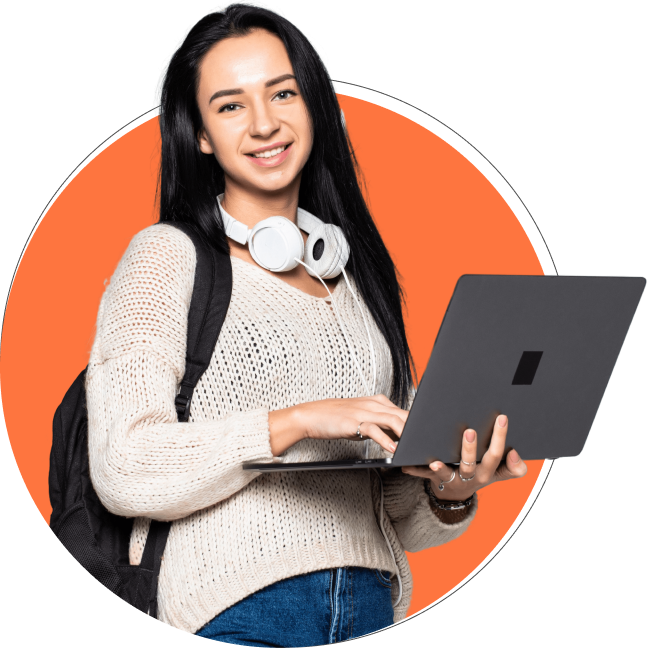
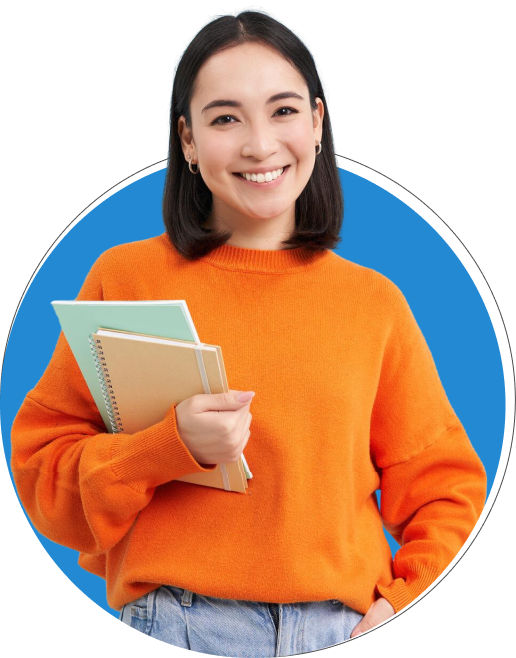
hero model changed

diff --git a/src/Home.jsx b/src/Home.jsx
@@ -83,8 +83,8 @@ function Home() {
               />
             </div>
           </div>
-          <div className="col-md-6 ps-5">
-            <img src={hero} className="img-fluid" alt="hero-img" width={600} />
+          <div className="col-md-6 text-end">
+            <img src={hero} className="img-fluid" alt="hero-img" width={420} />
           </div>
         </div>
       </section>
